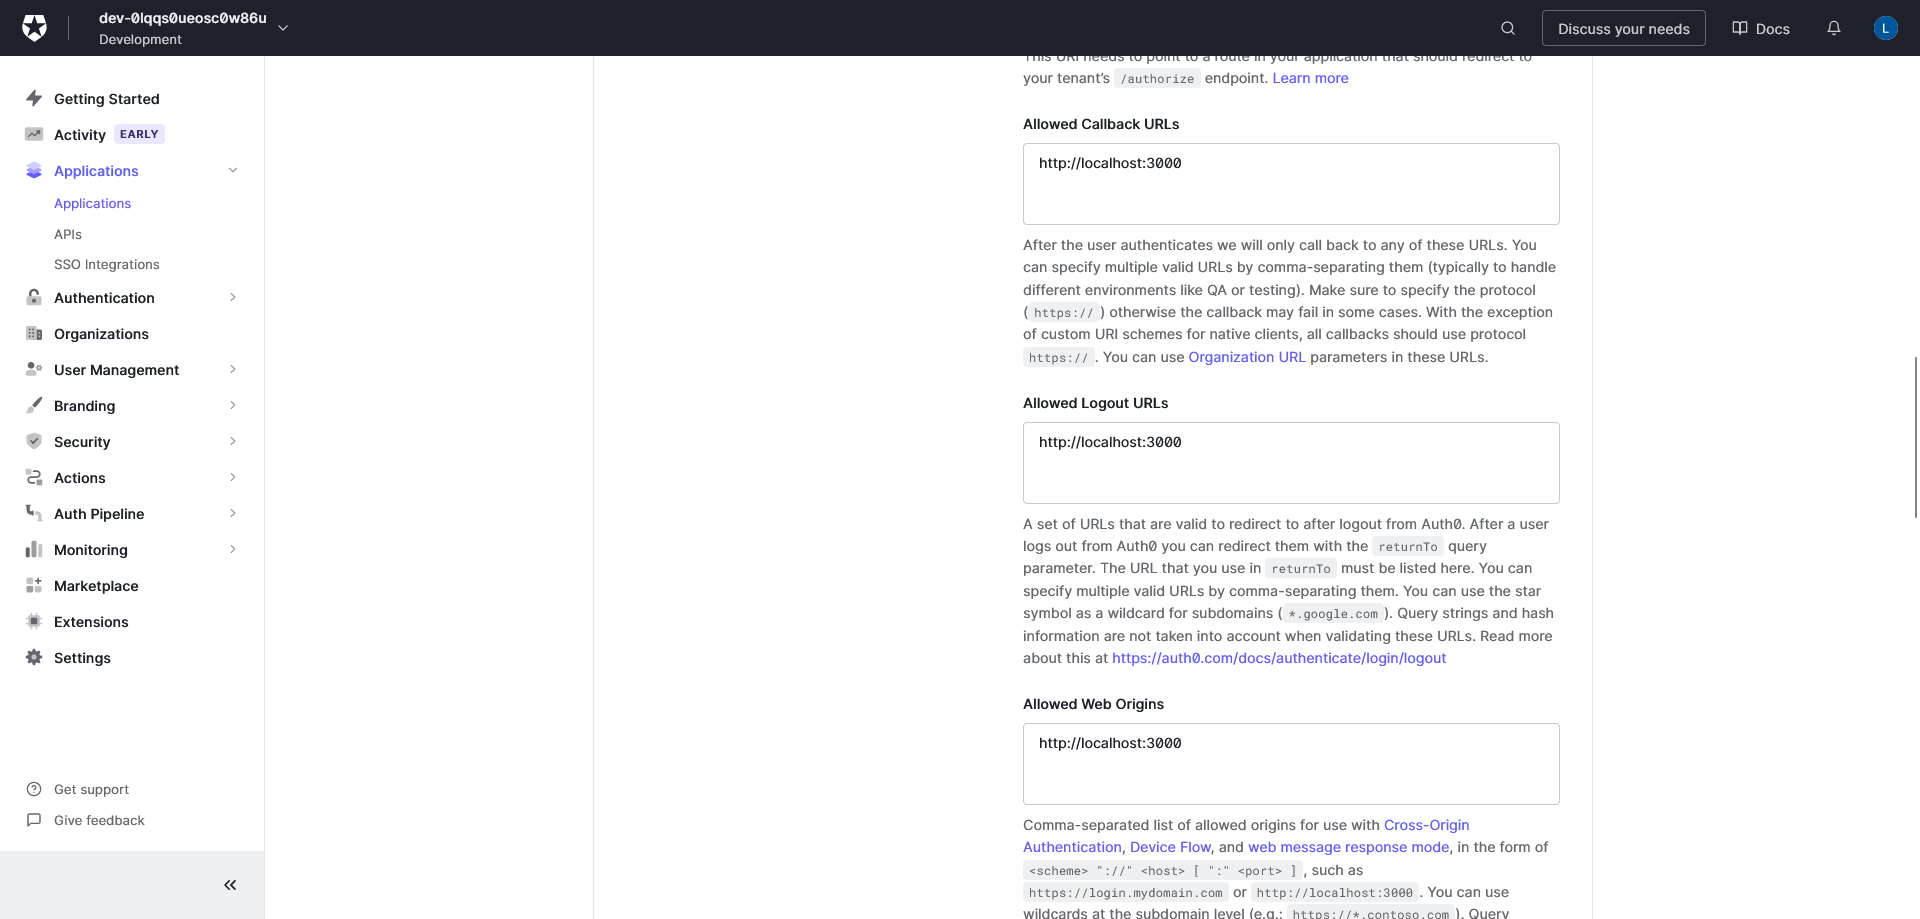
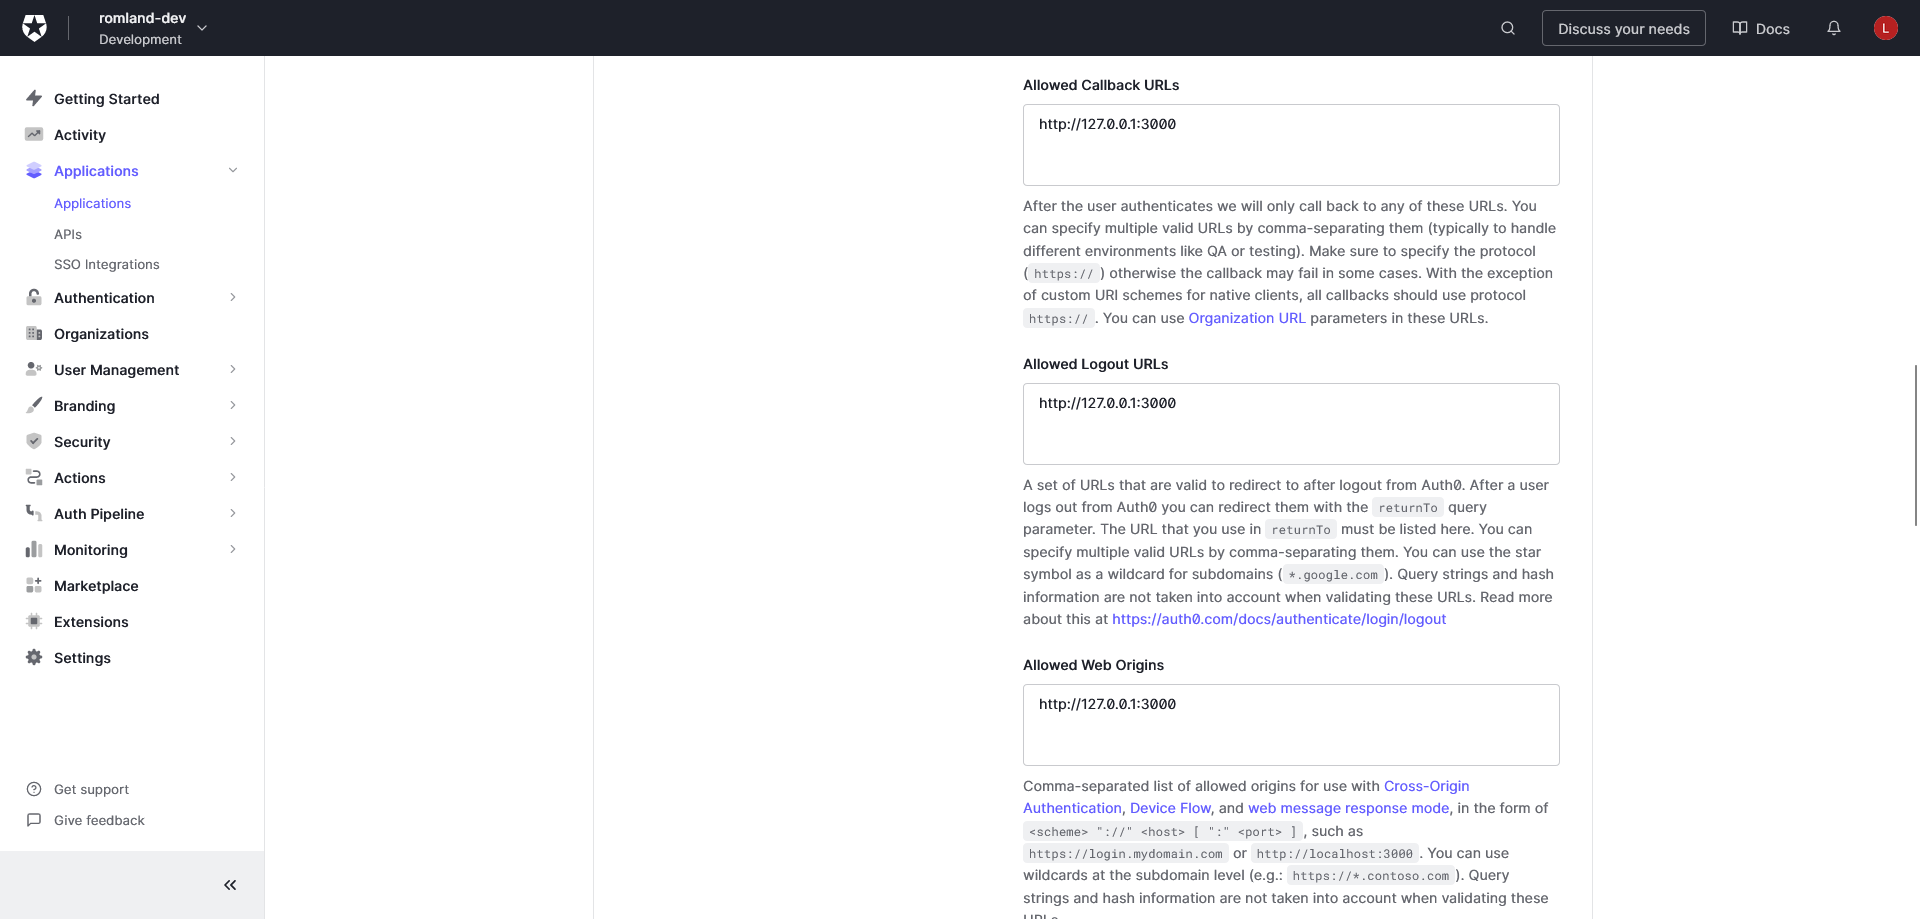
Update documentation

diff --git a/README.md b/README.md
@@ -7,12 +7,16 @@
 3. [Getting started](#getting-started-)
    1. [Prerequisites](#prerequisites-)
    2. [Setup](#setup-%EF%B8%8F)
-4. [Documentation](#documentation-)
+4. [Tests](#tests-)
+   1. [Unit tests](#unit-tests)
+   2. [End-to-end tests](#end-to-end-tests)
+   3. [BDD tests](#bdd-tests)
+5. [Documentation](#documentation-)
    1. [Figma](#figma)
    2. [UML Sequence Diagram](#uml-sequence-diagram)
    3. [UML Class Diagram API](#uml-class-diagram-api)
    4. [Component Diagram Client](#component-diagram-client)
-5. [License](#)
+6. [License](#)
 
 ## Introduction
 
@@ -34,10 +38,12 @@ This guide will help you get the project up and running on your local machine, e
 ### Prerequisites 📋
 
 - [Node.js](https://nodejs.org/en/download/)
+- [Auth0](docs/auth0/README.md)
+- [Environment Variables](docs/environmentVariables.md)
 
-You need to setup `Auth0` for the project before running it, a complete guide can be found [here](docs/auth0.md).
+To run the project you have to have Node.js installed, you can download it [here](https://nodejs.org/en/download/).
 
-You also need to setup the `Environment Variables` for the project before running it, a complete guide can be found [here](docs/environmentVariables.md).
+You also **NEED** to have `Auth0` & `Environment Variables` setup before running the project. A complete guide can be found [here](docs/auth0/README.md) & [here](docs/environmentVariables.md).
 
 ### Setup 🛠
 
@@ -66,6 +72,81 @@ npm run dev
 ```
 
 The frontend will be available at [http://127.0.0.1:3000](http://127.0.0.1:3000) and the backend at [http://127.0.0.1:3001](http://127.0.0.1:3001).
+
+## Tests 🧪
+
+I have written both unit tests and end-to-end tests for this project. The unit tests are written in `Jest` and the end-to-end tests for the api are also written in `Jest` and the end-to-end tests for the client are written in `Cypress`.
+
+To run all tests, you need to have installed and made sure the project can be started. See [Setup](#setup-%EF%B8%8F) for more information. Also make sure that you have set ut Auth0 with a test account and have the environment variables set up. See [Prerequisites](#prerequisites-) for more information.
+
+### Unit tests
+
+I have written unit tests for the api and the client. The unit tests for the api are written in `Jest` and the unit tests for the client are written in `React Testing Library`.
+I have tested most of the functions and components. And also tested for invalid inputs, null values and so on. Some are tested with snapshots, some are tested with mock functions and some are tested with just rendering the component and checking if it renders correctly.
+
+**Note:** The tests could fail once in a while because of the connection to Auth0. Restarting the test should fix it.
+
+Some example of this is:
+
+- [validateSettings.spec.ts](apps/api/src/utils/validateSettings.spec.ts)
+- [validateWebSocketEvent.spec.ts](apps/api/src/utils/validateWebSocketEvent.spec.ts)
+- [auth.guard.spec.ts](apps/api/src/guards/auth.guard.spec.ts)
+- [Button.spec.tsx](apps/client/src/components/Button/Button.spec.tsx)
+- [Modal.spec.tsx](apps/client/src/components/Modal/Modal.spec.tsx)
+- [Card.spec.tsx](apps/client/src/routes/Landing/components/Card/Card.spec.tsx)
+- [SettingInput.spec.tsx](apps/client/src/routes/Game/Lobby/components/SettingInput/SettingInput.spec.tsx)
+
+**Run the tests**
+
+To run the Units tests for the api, run the following command:
+
+```sh
+npm run test:unit -w api
+```
+
+To run the Units tests for the client, run the following command:
+
+```sh
+npm run test -w client
+```
+
+### End-to-end tests
+
+I have written end-to-end tests for the api and the client. The end-to-end tests for the api are written in `Jest` and the end-to-end tests for the client are written in `Cypress`.
+
+The API end-to-end tests are testing the api endpoints and checks if they return the correct status code and response. The client end-to-end tests are testing the client and checks if the client can navigate to the correct pages and if the client can play a round of the game.
+
+The API end-to-end tests are found in the `apps/api/test/` directory and the client end-to-end tests are found in the `cypress/e2e/` directory.
+
+**Run the tests**
+
+To run the end-to-end tests for the api, run the following command:
+
+```sh
+npm run test:e2e -w api
+```
+
+It is not possible to run the end-to-end test for the client without also running the BDD tests. To run the end-to-end tests for the client, run the following command:
+
+```sh
+npm run cy:run
+```
+
+Please note that the end-to-end tests will fail if you do not have the project running. The frontend should be running at `http://127.0.0.1:3000` and the backend should be running at `http://127.0.0.1:3001`. See [Setup](#setup-%EF%B8%8F) for more information.
+
+### BDD tests
+
+I have written one BDD test that tests the whole flow of the game. The test is written in `Cypress` and cucumber. The test is found in the `cypress/integration/` directory.
+
+**Run the tests**
+
+To run the BDD tests, run the following command:
+
+```sh
+npm run cy:run
+```
+
+Please note that the BDD test will fail if you do not have the project running. The frontend should be running at `http://127.0.0.1:3000` and the backend should be running at `http://127.0.0.1:3001`. See [Setup](#setup-%EF%B8%8F) for more information.
 
 ## Documentation 📖
 

diff --git a/docs/auth0/README.md b/docs/auth0/README.md
@@ -25,7 +25,7 @@ To create an Auth0 application you need to follow the steps below:
 </details>
 <br/>
 
-4. Go to the "Settings" tab and add the url it will be running on (default is http://localhost:3000) to the "Allowed Callback URLs", "Allowed Logout URLs" and "Allowed Web Origins" fields.
+4. Go to the "Settings" tab and add the url it will be running on (default is `http://127.0.0.1:3000`, make sure to use `http://127.0.0.1:3000`. The tests will fail if using `http://localhost:3000`.) to the "Allowed Callback URLs", "Allowed Logout URLs" and "Allowed Web Origins" fields.
 
 <details>
 <summary>show/hide image</summary>
